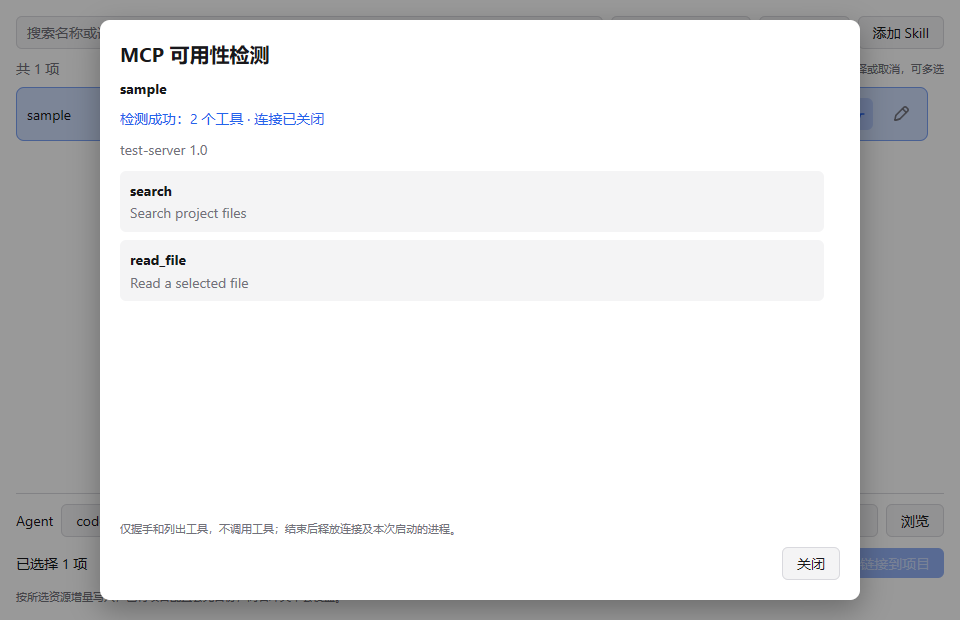
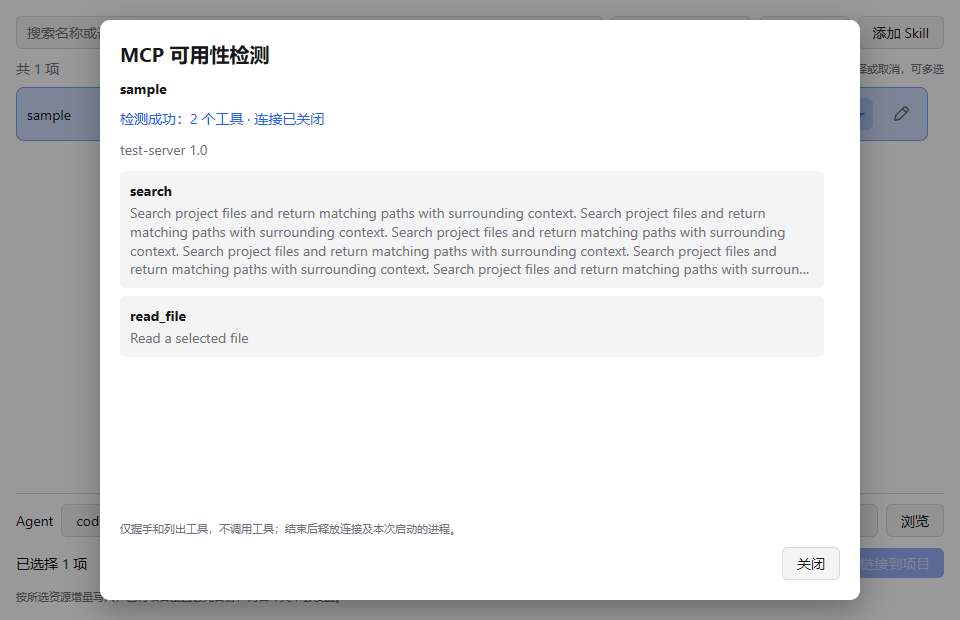
fix: clamp MCP tool descriptions within cards

Changed region(s): [[0.125, 0.3371, 0.8438, 0.4597], [0.125, 0.4903, 0.25, 0.5516]]

diff --git a/internal/libraryui/probe_test.go b/internal/libraryui/probe_test.go
@@ -25,7 +25,10 @@ func TestProbeButtonResultsAndSelection(t *testing.T) {
 		if config.Command != "probe" {
 			t.Fatal("wrong config")
 		}
-		return mcpcheck.Result{Server: "test-server 1.0", Tools: []mcpcheck.Tool{{Name: "search", Description: "Search project files"}, {Name: "read_file", Description: "Read a selected file"}}}, nil
+		return mcpcheck.Result{Server: "test-server 1.0", Tools: []mcpcheck.Tool{
+			{Name: "search", Description: strings.Repeat("Search project files and return matching paths with surrounding context. ", 20)},
+			{Name: "read_file", Description: "Read a selected file"},
+		}}, nil
 	}
 	tt := ui.NewTester(p.View, 960, 620)
 	click(t, tt, "检测可用性")

diff --git a/internal/libraryui/probe.go b/internal/libraryui/probe.go
@@ -116,7 +116,7 @@ func (p *Panel) probeDialog(c *ui.Context) {
 				ui.Column(c).Padding(10).Margin(0, 0, 8, 0).Gap(4).Background(c.Theme().Surface).Radius(6).Children(func() {
 					ui.Text(c, tool.Name).Bold().SingleLine().Tooltip(tool.Name)
 					if tool.Description != "" {
-						ui.Text(c, tool.Description).MaxHeight(80).Tooltip(tool.Description).TextColor(c.Theme().TextMuted)
+						ui.Text(c, tool.Description).FillWidth().MaxLines(4).Tooltip(tool.Description).TextColor(c.Theme().TextMuted)
 					}
 				})
 			}).Grow(1).Padding(0, 16, 0, 0)
